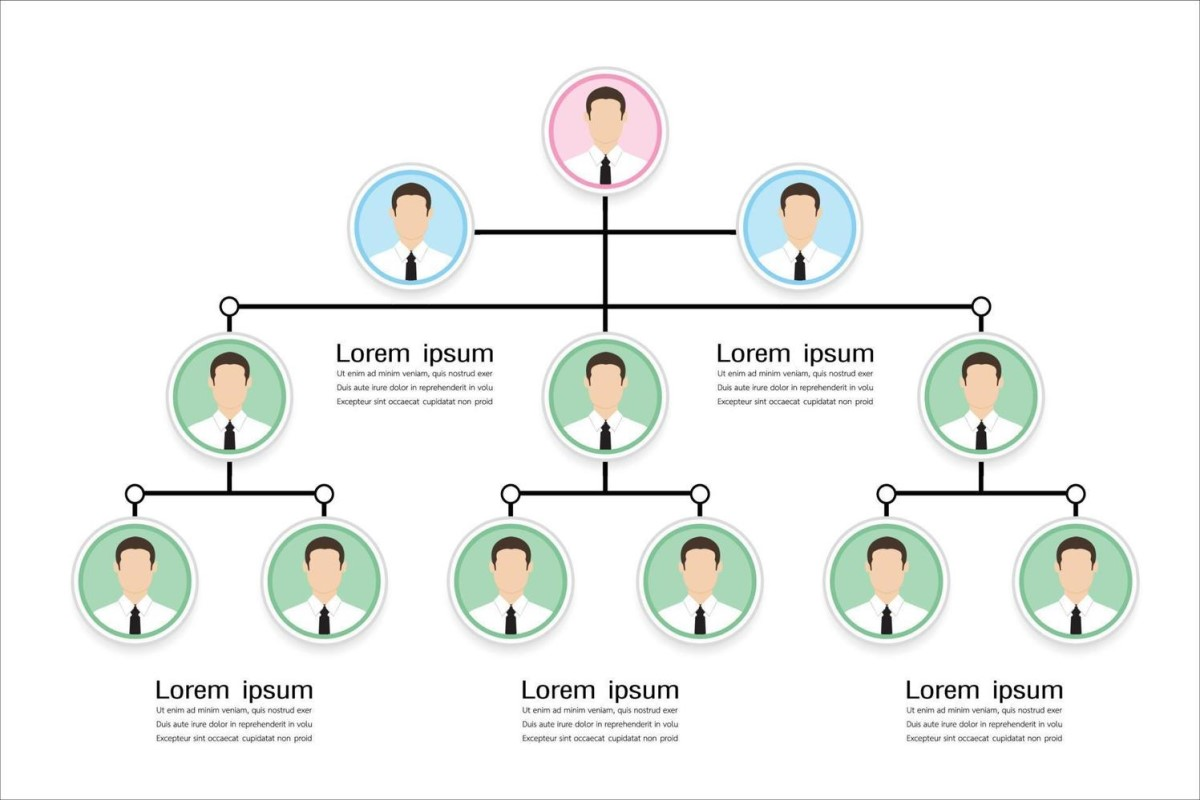
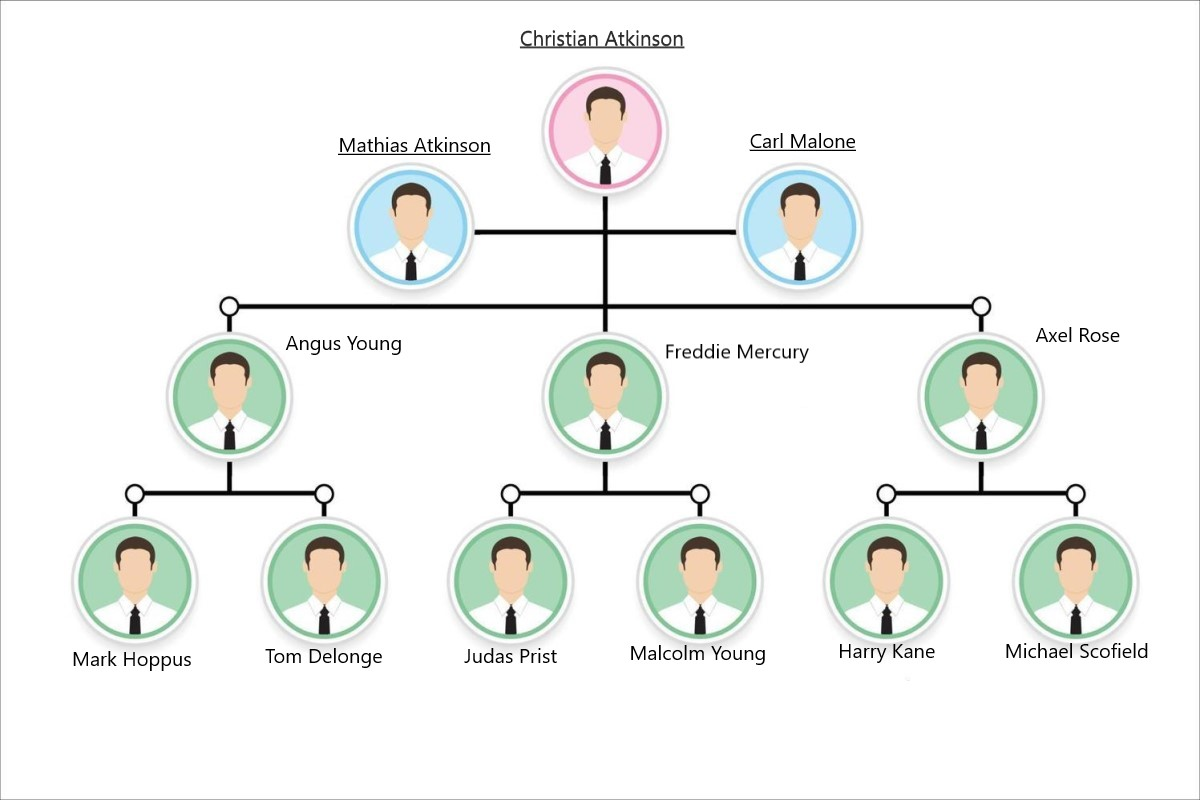
pagina about us terminada

diff --git a/pages/aboutus.html b/pages/aboutus.html
@@ -89,29 +89,28 @@
         </div>
     </section>
 
-    <main class="container bg-dark borderh1 mt-4 p-4">
+    <main class="container bg-dark borderh1 mt-5 p-4">
         <div class="row">
-            <div class="col">
+            <div class="col mt-5">
                 <img src="../images/arboldeempresa.jpg" alt="Ourfamily" class="mx-auto d-block rounded"> <!--ARBOL DE MIEMBROS-->
             </div>
         </div>
-        <div class="row m-4">
+        <div class="row m-4 mt-5">
             <div class="col box-shadow rounded">
-                <p class="font white text-transform"><b>Christian Atkinson. CEO.</b> Lorem ipsum dolor, sit amet consectetur adipisicing
-                     elit. Itaque temporibus libero dicta fugiat id numquam omnis cum cumque non nam possimus iusto nulla accusantium, 
-                     eaque nesciunt molestias iste veniam. Voluptatibus?</p>
-                <p class="font white text-transform"><b>Mathias Atkinson. VP.</b> Lorem ipsum dolor, sit amet consectetur adipisicing 
-                    elit. Itaque temporibus libero dicta fugiat id numquam omnis cum cumque non nam possimus iusto nulla accusantium, 
-                    eaque nesciunt molestias iste veniam. Voluptatibus?</p>
-                <p class="font white text-transform"><b>Carl Malone. Dir.</b> Lorem ipsum dolor, sit amet consectetur adipisicing elit.
-                     Itaque temporibus libero dicta fugiat id numquam omnis cum cumque non nam possimus iusto nulla accusantium, eaque 
-                     nesciunt molestias iste veniam. Voluptatibus?</p>
-                <p class="font white text-transform"><b>Freddie Mercury. Man.</b> Lorem ipsum dolor, sit amet consectetur adipisicing
-                     elit. Itaque temporibus libero dicta fugiat id numquam omnis cum cumque non nam possimus iusto nulla accusantium, 
-                     eaque nesciunt molestias iste veniam. Voluptatibus?</p>
+                <p class="font white text-transform"><b>Christian Atkinson. CEO.</b> The chief executive officer (CEO) is the highest-ranking person in a company.
+                   While every company differs, CEOs are often responsible for expanding the company, driving profitability, and in the case of public companies,
+                    improving share prices. CEOs manage the overall operations of a company.</p>
+                <p class="font white text-transform"><b>Mathias Atkinson. VP.</b> The vice president of a company is usually the second or third in command and 
+                  supports the President by overseeing internal operations and stepping in when the president is unavailable. The vice president has a top-level 
+                  leadership role in a company and oversees department managers.</p>
+                <p class="font white text-transform"><b>Carl Malone. Dir.</b> A director is a senior management professional who oversees an aspect of an organization.
+                   Directors often oversee managers and may assist them in managing a department, team or project. For example, a human resources director may oversee payroll, 
+                   hiring, benefits, and recruiting managers.</p>
+                <p class="font white text-transform"><b>Freddie Mercury. Man.</b> A Manager, or Supervisor, oversees team members in a certain department to ensure it's performing 
+                  effectively. Their main duties include hiring and training employees, creating and implementing business strategies and delegating tasks to team members.</p>
             </div>
         </div>
-        <div class="row titleflex">
+        <div class="row titleflex mt-5">
             <div class="col-4">
                 <img src="../images/chart1.jpeg" alt="Stats1" class="green-shadow"> <!--TABLA DE ESTADISTICAS-->
             </div>
@@ -122,16 +121,22 @@
                 <a href="chart2big.html"><img src="../images/chart2.jpeg" alt="Stats3" class="green-shadow-hover"></a> <!--ESTADISTICAS-->
             </div>
         </div>
-        <div class="row mt-4">
+        <div class="row mt-5">
             <div class="col border border-top border-secondary">
                 <p class="font white text-decoration-underline m-3 text-transform">Our History...</p>
-                <p class="font white text-transform">Lorem ipsum dolor, sit amet consectetur adipisicing elit. Ex quibusdam velit 
-                    praesentium similique animi! Minima beatae tempore vitae non enim officiis architecto perspiciatis doloribus, 
-                    rem esse possimus corrupti praesentium dicta. Lorem ipsum, dolor sit amet consectetur adipisicing elit. Illo 
-                    ipsum facilis, optio sapiente ut id eos, corrupti libero eligendi repellat cumque ducimus voluptatibus minima 
-                    sit nostrum dolores, sint voluptas unde! Lorem ipsum dolor sit amet, consectetur adipisicing elit. Quod, rerum 
-                    cupiditate corporis recusandae autem necessitatibus cumque expedita maxime, minus laudantium vero voluptatibus 
-                    deleniti quam vitae aperiam id. Numquam, eveniet eius!</p>
+                <p class="font white text-transform">Creeps Archery began in 1992 when Christian Atkinson created the company based on his first compound bow with
+                  Solocam technology. But the seeds to one of the industry’s most successful archery companies began many years earlier thanks to McPherson’s passion. <br>
+
+                  Atkinson brothers have been building bows for more than 50 years. They built their first stick bow when Christian was 10 years old and his first compound bow three 
+                  years later. He couldn’t afford to buy one. Innovation and determination guided them, along with a willing shop teacher in school who allowed them 
+                  to create a bow. Although Atkinson C. didn’t know it at the time, his life’s trajectory was set.<br>
+                  
+                  After founding Creeps Archery, Atkinson C. was determined to maintain control over every aspect of the building process. Mathews sources the best
+                   materials and micromanages the manufacturing process to deliver innovation, high-quality and craftsmanship recognized by hunters and competitive 
+                   shooters.<br>
+                  
+                  We talked with Freddie Mercury, communications manager for Creeps Archery, about the company and its new flagship bow, the VXR, along with the 
+                  Switchweight module system and new Silent Connect System.</p>
             </div>
         </div>
 
